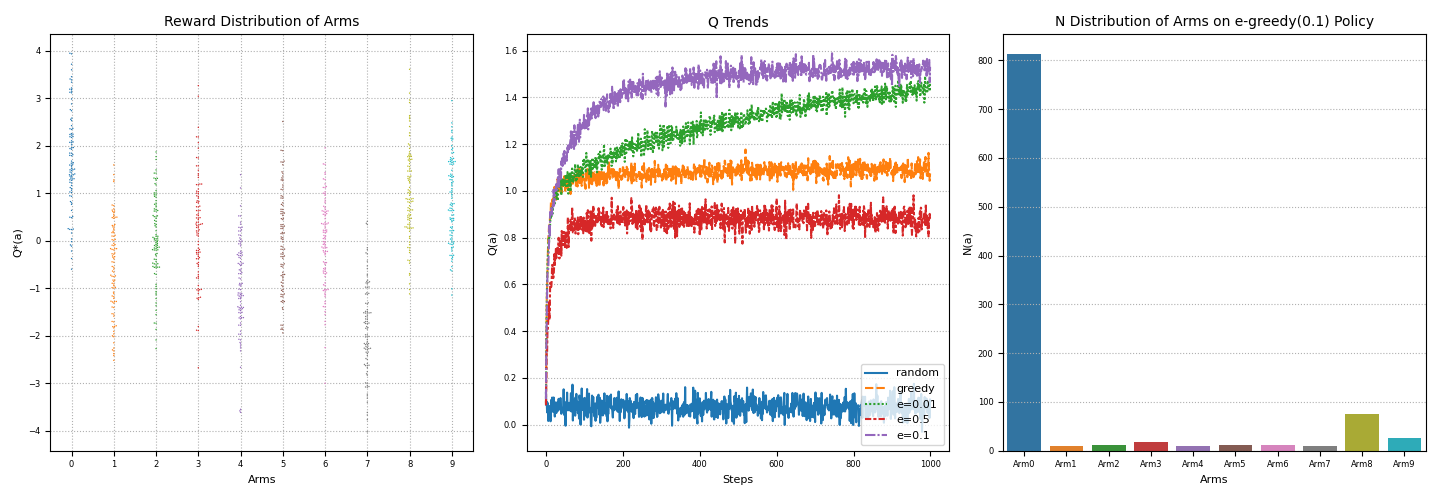
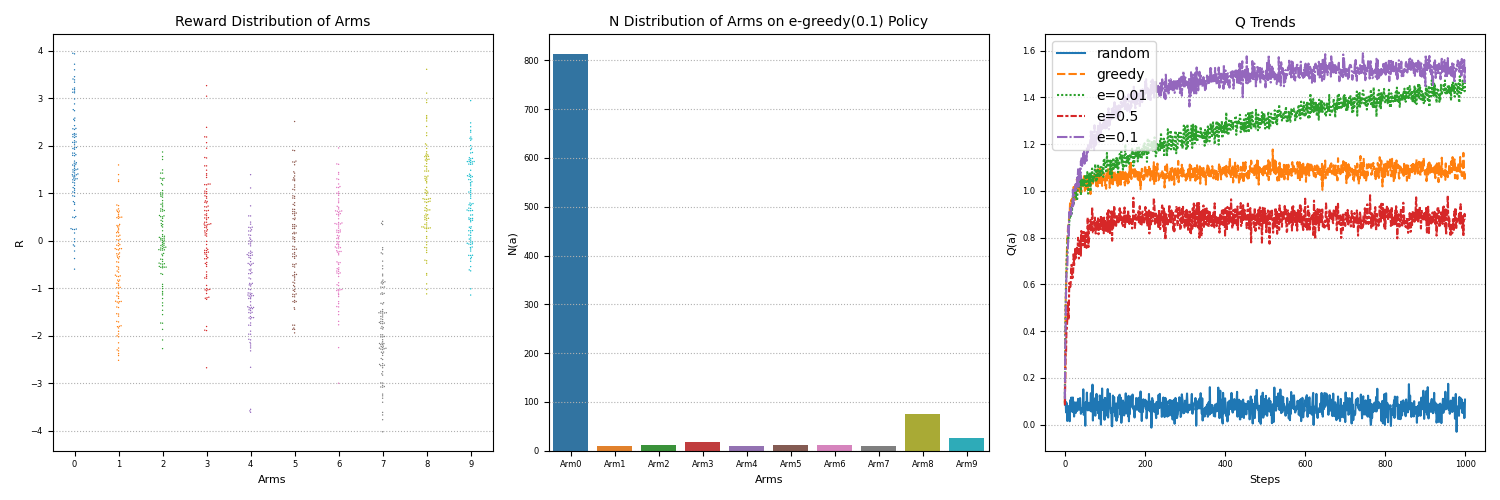
add comment, re-run to generate figure

diff --git a/bandit.py b/bandit.py
@@ -97,90 +97,94 @@ class IncrementalImpl(BanditAlgorithm):
 
 if __name__ == "__main__":
     logging.basicConfig(level=logging.INFO, format='%(asctime)s - %(name)s - %(levelname)s - %(message)s')
+
     np.random.seed(seed=7)
 
-    # plot config
-    fig, axes = plt.subplots(1, 3, figsize=(15, 5))
+    # plots init and config
+    fig, (ax1, ax2, ax3) = plt.subplots(1, 3, figsize=(15, 5))
 
-    # 10 armed bandit
+    # 1st diagram format
+    ax1.set_title('Reward Distribution of Arms', fontsize=10)
+    ax1.set_xlabel('Arms', fontsize=8)
+    ax1.set_ylabel('R', fontsize=8)
+    ax1.tick_params(labelsize=6)
+    ax1.grid(True, linestyle=':')
+    
+    # 2nd diagram format
+    ax2.set_title('N Distribution of Arms on e-greedy(0.1) Policy', fontsize=10)
+    ax2.set_xlabel('Arms', fontsize=8)
+    ax2.set_ylabel('N(a)', fontsize=8)
+    ax2.tick_params(labelsize=6)
+    ax2.grid(True, axis='y', linestyle=':')
+
+    # 3rd diagram format
+    ax3.set_title('Q Trends', fontsize=10)
+    ax3.set_xlabel('Steps', fontsize=8)
+    ax3.set_ylabel('Q(a)', fontsize=8)
+    ax3.tick_params(labelsize=6)
+    ax3.grid(True, axis='y', linestyle=':')
+    ax3.legend(loc='lower right', fontsize=7)
+
+
+    # 10-armed bandit enviroment
     n_arm = 10
     actions_space = ['Arm%d' % i for i in range(n_arm)]
     env = MultiArmedBanditEnv(actions_space)
     env.info()
 
-    reward_target_action = []
-    reward_target_mean = env.get_reward_target_mean()
-    reward_target_var = env.get_reward_target_var()
-    sample_size = 100
+    # plot reward target distribution of given environment
+    reward_target_list = []
+    sampling_size = 100
 
-    for item in zip(actions_space, reward_target_mean, reward_target_var):
-        series = pd.Series(np.random.normal(loc=item[1], scale=item[2], size=sample_size), name=item[0])
-        reward_target_action.append(series)
+    for item in zip(actions_space, env.get_reward_target_mean(), env.get_reward_target_var()):
+        action_series = pd.Series(np.random.normal(loc=item[1], scale=item[2], size=sampling_size), name=item[0])
+        reward_target_list.append(action_series)
 
-    sns.swarmplot(data=reward_target_action, size=1, ax=axes[0])
+    sns.swarmplot(data=reward_target_list, size=1, ax=ax1)
 
-    # agent_clazzes = [ActionValueMethods, IncrementalImpl]
-    # policy_clazzes = [RandomPolicy, GreedyPolicy, EpsilonGreedyPolicy]
-
+    # evaluation using incremental implementation algorithm with various policies
     agent = IncrementalImpl(env)
-    n_episodes=2000
+    n_episodes=100
     n_steps=1000
 
+    # params storing
+    q_steps_list = []
 
-    q_steps_policy = []
-
+    # random
     agent.run_episodes(RandomPolicy(), n_episodes, n_steps)
     agent.report()
-    q_steps_policy.append(pd.Series(np.mean(agent.history.get('Q_steps'), axis=0), name='random'))
+    q_steps_list.append(pd.Series(np.mean(agent.history.get('Q_steps'), axis=0), name='random'))
 
-
+    # greedy, e=0.0
     agent.run_episodes(GreedyPolicy(), n_episodes, n_steps)
     agent.report()
-    q_steps_policy.append(pd.Series(np.mean(agent.history.get('Q_steps'), axis=0), name='greedy'))
+    q_steps_list.append(pd.Series(np.mean(agent.history.get('Q_steps'), axis=0), name='greedy'))
 
-
+    # e-greedy, e=0.01
     agent.run_episodes(EpsilonGreedyPolicy(epsilon=0.01), n_episodes, n_steps)
     agent.report()
-    q_steps_policy.append(pd.Series(np.mean(agent.history.get('Q_steps'), axis=0), name='e=0.01'))
+    q_steps_list.append(pd.Series(np.mean(agent.history.get('Q_steps'), axis=0), name='e=0.01'))
 
-
+    # e-greedy, e=0.5
     agent.run_episodes(EpsilonGreedyPolicy(epsilon=0.5), n_episodes, n_steps)
     agent.report()
-    q_steps_policy.append(pd.Series(np.mean(agent.history.get('Q_steps'), axis=0), name='e=0.5'))
+    q_steps_list.append(pd.Series(np.mean(agent.history.get('Q_steps'), axis=0), name='e=0.5'))
 
-
+    # e-greedy, e=0.1
     agent.run_episodes(EpsilonGreedyPolicy(), n_episodes, n_steps)
     agent.report()
-    q_steps_policy.append(pd.Series(np.mean(agent.history.get('Q_steps'), axis=0), name='e=0.1'))
+    q_steps_list.append(pd.Series(np.mean(agent.history.get('Q_steps'), axis=0), name='e=0.1'))
     
-    sns.lineplot(data=q_steps_policy, size=0.5, ax=axes[1])
+    # plot Q trends over steps with various policies
+    sns.lineplot(data=q_steps_list, size=0.5, ax=ax3)
 
+    # plot N distribution using e-greedy(0.1) policy
+    # by using e-greedy policy, action reward with higher target mean value in the first place 
+    # has much higher possiblity to be choosed
     n_actions_mean = np.mean(agent.history.get('N_actions'), axis=0)
     df = pd.DataFrame(data=n_actions_mean.reshape(1, -1), columns=env.actions_space)
-    sns.barplot(data=df, ax=axes[2])
+    sns.barplot(data=df, ax=ax2)
 
-
-    # 1st diagram format
-    axes[0].set_title('Reward Distribution of Arms', fontsize=10)
-    axes[0].set_xlabel('Arms', fontsize=8)
-    axes[0].set_ylabel('Q*(a)', fontsize=8)
-    axes[0].tick_params(labelsize=6)
-    axes[0].grid(True, linestyle=':')
-    
-    # 2nd diagram format
-    axes[1].set_title('Q Trends', fontsize=10)
-    axes[1].set_xlabel('Steps', fontsize=8)
-    axes[1].set_ylabel('Q(a)', fontsize=8)
-    axes[1].tick_params(labelsize=6)
-    axes[1].grid(True, axis='y', linestyle=':')
-    axes[1].legend(loc='lower right', fontsize=8)
-
-    # 3rd diagram format
-    axes[2].set_title('N Distribution of Arms on e-greedy(0.1) Policy', fontsize=10)
-    axes[2].set_xlabel('Arms', fontsize=8)
-    axes[2].set_ylabel('N(a)', fontsize=8)
-    axes[2].tick_params(labelsize=6)
-    axes[2].grid(True, axis='y', linestyle=':')
-
+    # plot show
     plt.tight_layout()
     plt.show()

diff --git a/env/multi_armed_bandit.py b/env/multi_armed_bandit.py
@@ -8,15 +8,15 @@ class MultiArmedBanditEnv(object):
         self.actions_space = actions_space
         self.k = len(actions_space)
         
-        # r_mean_target ~ N(0, 1)
+        # q*(a) ~ N(0, 1)
         self.reward_target_mean = np.random.standard_normal(self.k)
         self.reward_target_var = np.ones(self.k)
 
-    def get_reward(self, action_idx):
-        # q_target ~ N(r_mean_target, 1.0)
+    def get_reward(self, action_idx, size=None):
+        # R(a) ~ N(q*(a), 1)
         loc = self.reward_target_mean[action_idx]
         scale = self.reward_target_var[action_idx]
-        return np.random.normal(loc=loc, scale=scale)
+        return np.random.normal(loc=loc, scale=scale, size=size)
     
     def get_k(self):
         return self.k
@@ -32,21 +32,7 @@ class MultiArmedBanditEnv(object):
     
     def info(self):
         logging.info('------------------------------------------------------------')
-        logging.info('%s Action Target Distribution' % self.name)
+        logging.info('%s Reward Target Distribution' % self.name)
         logging.info('------------------------------------------------------------')
         for target in zip(self.actions_space, self.reward_target_mean, self.reward_target_var):
-            logging.info("%s R ~ N (%.4f, %.2f)" % (target[0], target[1], target[2]))
-
-
-if __name__ == "__main__":
-    logging.basicConfig(level=logging.INFO, format='%(asctime)s - %(name)s - %(levelname)s - %(message)s')
-
-    actions_space = ['Arm%d' % i for i in range(1, 6)]
-    env = MultiArmedBanditEnv(actions_space)
-    env.info()
-
-    r = []
-    for i in range(1000):
-        r.append(env.get_reward(1))
-    print(np.mean(r))
-    print(np.var(r))
+            logging.info("%s R ~ N(%.4f, %.2f)" % (target[0], target[1], target[2]))
